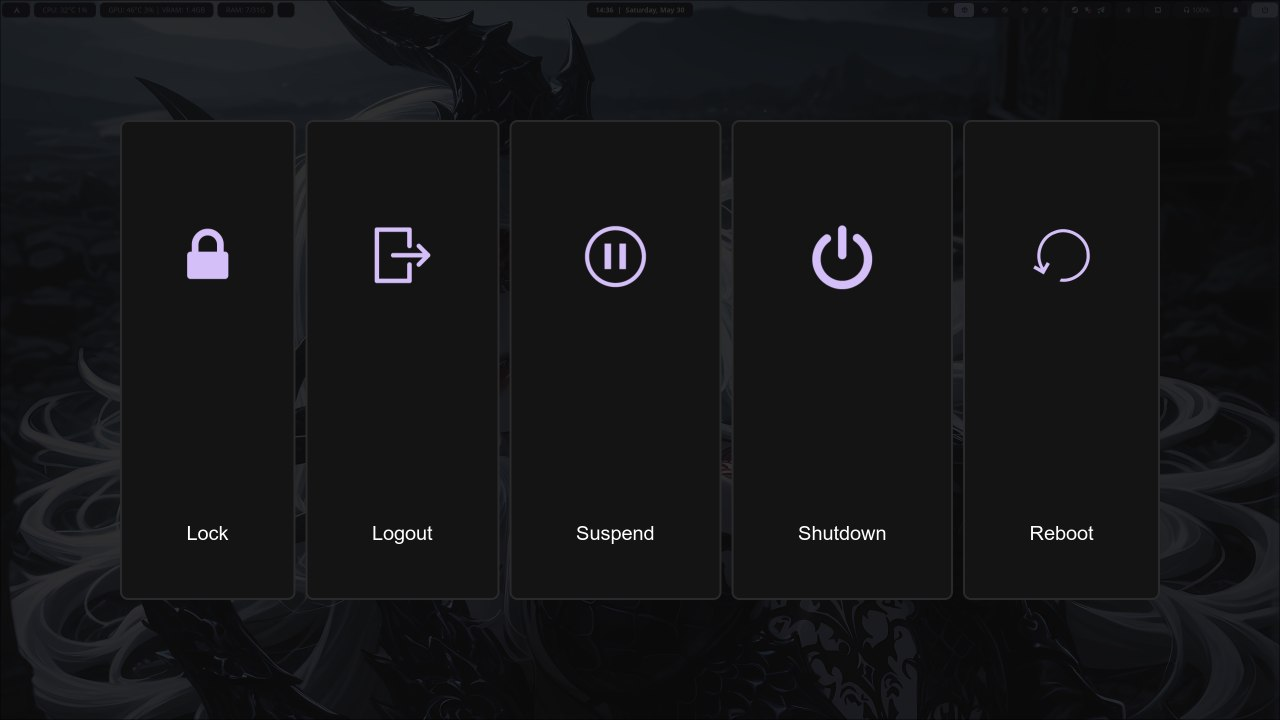
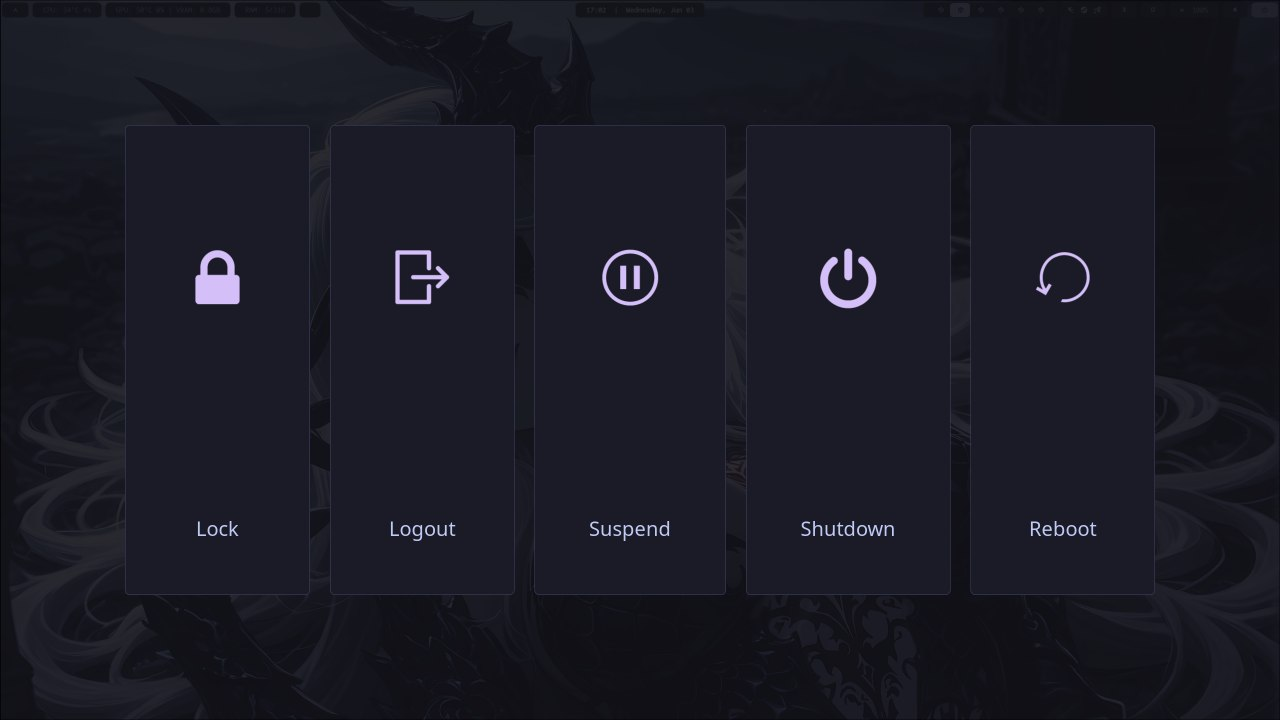
Add files via upload

diff --git a/wlogout/style.css b/wlogout/style.css
@@ -1,0 +1,36 @@
+* {
+    all: unset;
+    font-family: sans-serif;
+    transition: 0.1s ease-in-out;
+}
+
+window {
+    background: rgba(18, 18, 25, 0.9);
+}
+
+button {
+    background-color: #1a1b26;
+    background-repeat: no-repeat;
+    background-position: center 30%;
+    background-size: 30%;
+    border: 1px solid #414868;
+    border-radius: 10px;
+    margin: 20px;
+    padding: 20px;
+    color: #c0caf5;
+    font-size: 40px;
+    min-width: 150px;
+    min-height: 350px;
+}
+
+button:hover {
+    background-color: #24283b;
+    border: 1px solid #7aa2f7;
+    box-shadow: 0 0 15px rgba(122, 162, 247, 0.3);
+}
+
+#lock { background-image: url("/usr/share/wlogout/icons/lock.png"); }
+#logout { background-image: url("/usr/share/wlogout/icons/logout.png"); }
+#suspend { background-image: url("/usr/share/wlogout/icons/suspend.png"); }
+#reboot { background-image: url("/usr/share/wlogout/icons/reboot.png"); }
+#shutdown { background-image: url("/usr/share/wlogout/icons/shutdown.png"); }